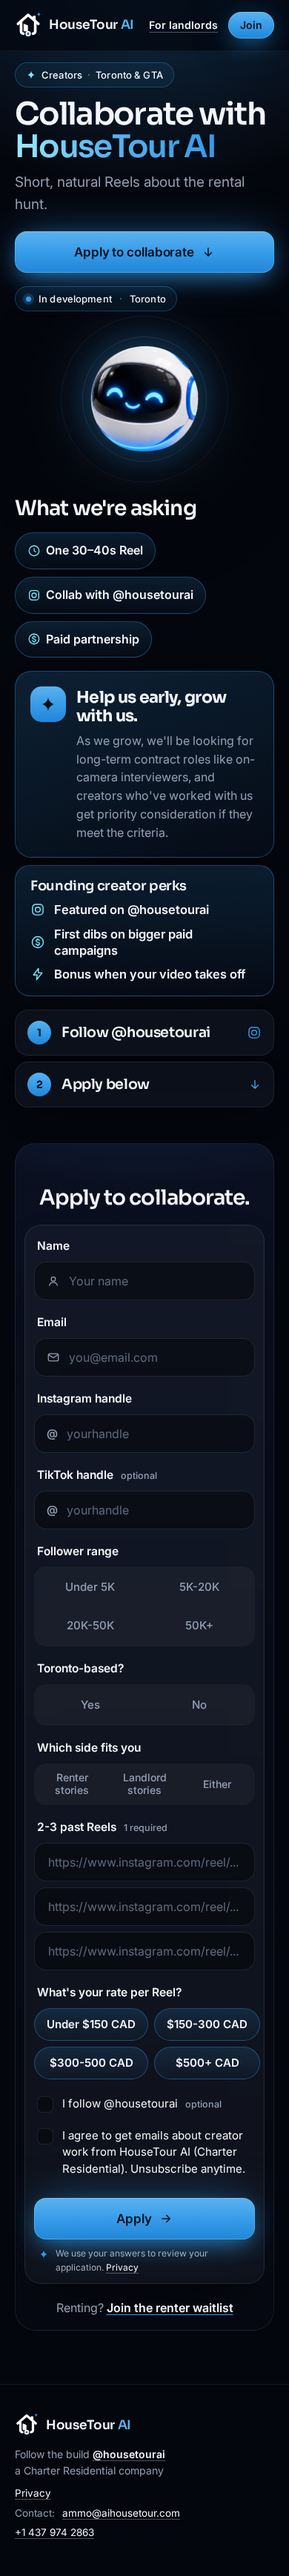
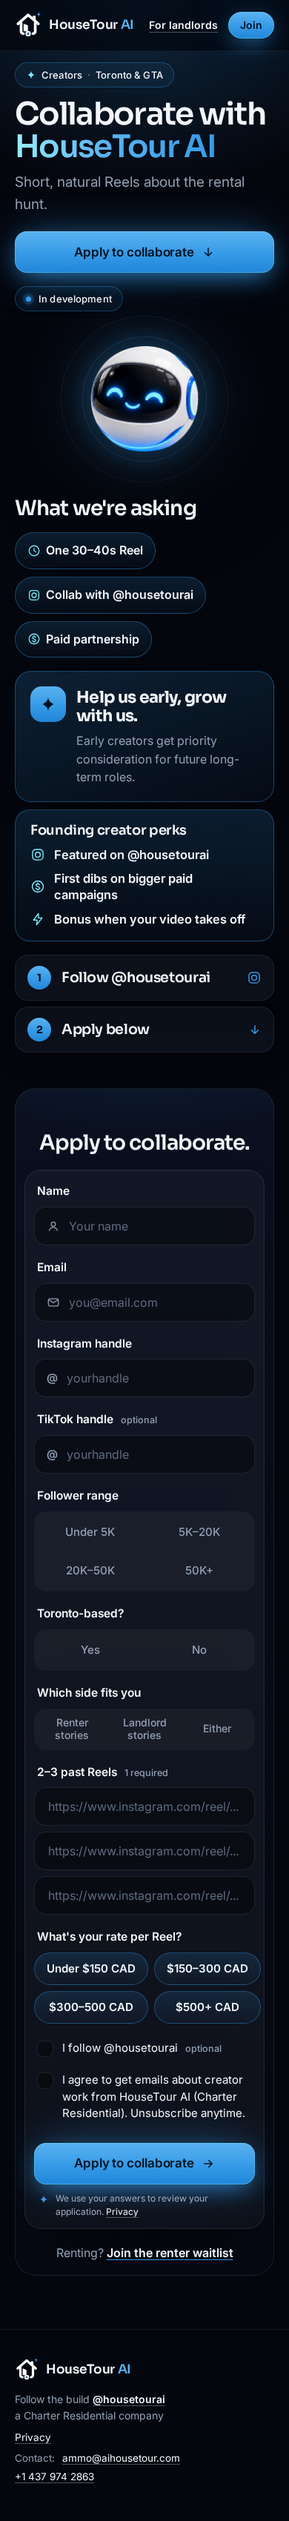
creators-v2 QA (preview only): one-line grow card, 'In development' pill, en-dash ranges, 'Apply to collaborate' submit
- Grow card body: 'Early creators get priority consideration for future long-term roles.'
- Second hero pill: 'In development' (keeps 'Creators · Toronto & GTA').
- Labels use en dashes: 5K–20K, 20K–50K, $150–300 CAD, $300–500 CAD, 2–3 past Reels. Radio/Kit values unchanged.
- Submit button: 'Apply to collaborate'. Screenshots refreshed.

Changed region(s): [[0.0308, 0.0, 0.9538, 0.9039], [0.0615, 0.935, 0.5538, 0.9974], [0.6154, 0.5922, 0.7385, 0.6545]]

diff --git a/work/src-v2/creators.html b/work/src-v2/creators.html
@@ -44,7 +44,7 @@
         <div class="lp-btns">
           <a class="btn" href="#apply">Apply to collaborate<svg class="down" width="18" height="18" aria-hidden="true"><use href="#i-arrow"/></svg></a>
         </div>
-        <span class="pill lp-pill"><span class="dot"></span>In development <span class="sep">·</span> Toronto</span>
+        <span class="pill lp-pill"><span class="dot"></span>In development</span>
       </div>
       <div class="lp-kira cr-kira" aria-hidden="true">
         <div class="ring r2"></div><div class="halo"></div><div class="ring r1"></div>
@@ -63,7 +63,7 @@
       </ul>
       <div class="cr-grow">
         <span class="ic" aria-hidden="true"><svg width="24" height="24"><use href="#i-spark"/></svg></span>
-        <div><h3>Help us early, grow with us.</h3><p>As we grow, we'll be looking for long-term contract roles like on-camera interviewers, and creators who've worked with us get priority consideration if they meet the criteria.</p></div>
+        <div><h3>Help us early, grow with us.</h3><p>Early creators get priority consideration for future long-term roles.</p></div>
       </div>
       <div class="cr-perks">
         <h3>Founding creator perks</h3>
@@ -115,8 +115,8 @@
           <legend class="ql">Follower range</legend>
           <div class="seg cr-seg c4">
             <label><input type="radio" name="follower_range" value="under-5k">Under 5K</label>
-            <label><input type="radio" name="follower_range" value="5k-20k">5K-20K</label>
-            <label><input type="radio" name="follower_range" value="20k-50k">20K-50K</label>
+            <label><input type="radio" name="follower_range" value="5k-20k">5K–20K</label>
+            <label><input type="radio" name="follower_range" value="20k-50k">20K–50K</label>
             <label><input type="radio" name="follower_range" value="50k-plus">50K+</label>
           </div>
           <p class="err" id="err-follower_range" role="alert" hidden><svg width="16" height="16" aria-hidden="true"><use href="#i-alert"/></svg>Please choose your follower range.</p>
@@ -142,7 +142,7 @@
         </fieldset>
 
         <fieldset class="q" data-q="reel_links" aria-describedby="err-reel_links">
-          <legend class="ql">2-3 past Reels <span class="opt">1 required</span></legend>
+          <legend class="ql">2–3 past Reels <span class="opt">1 required</span></legend>
           <div class="cr-links">
             <label class="field"><span class="sr">Reel link 1</span><input type="url" name="reel_1" inputmode="url" autocapitalize="none" spellcheck="false" placeholder="https://www.instagram.com/reel/..."></label>
             <label class="field"><span class="sr">Reel link 2</span><input type="url" name="reel_2" inputmode="url" autocapitalize="none" spellcheck="false" placeholder="https://www.instagram.com/reel/..."></label>
@@ -155,8 +155,8 @@
           <legend class="ql">What's your rate per Reel?</legend>
           <div class="cr-chips">
             <label><input type="radio" name="rate_cad" value="under-150-cad" required>Under $150 CAD</label>
-            <label><input type="radio" name="rate_cad" value="150-300-cad">$150-300 CAD</label>
-            <label><input type="radio" name="rate_cad" value="300-500-cad">$300-500 CAD</label>
+            <label><input type="radio" name="rate_cad" value="150-300-cad">$150–300 CAD</label>
+            <label><input type="radio" name="rate_cad" value="300-500-cad">$300–500 CAD</label>
             <label><input type="radio" name="rate_cad" value="500-plus-cad">$500+ CAD</label>
           </div>
           <p class="err" id="err-rate_cad" role="alert" hidden><svg width="16" height="16" aria-hidden="true"><use href="#i-alert"/></svg>Please choose your rate.</p>
@@ -170,7 +170,7 @@
           </div>
         </div>
 
-        <button class="btn cr-submit" type="submit">Apply<svg width="18" height="18" aria-hidden="true"><use href="#i-arrow"/></svg></button>
+        <button class="btn cr-submit" type="submit">Apply to collaborate<svg width="18" height="18" aria-hidden="true"><use href="#i-arrow"/></svg></button>
         <p class="err send-err" role="alert" hidden><svg width="16" height="16" aria-hidden="true"><use href="#i-alert"/></svg>Something went wrong. Please try again.</p>
         <p class="micro"><svg width="14" height="14" aria-hidden="true"><use href="#i-spark"/></svg><span>We use your answers to review your application. <a href="{{PRIVACY}}">Privacy</a></span></p>
       </form>
